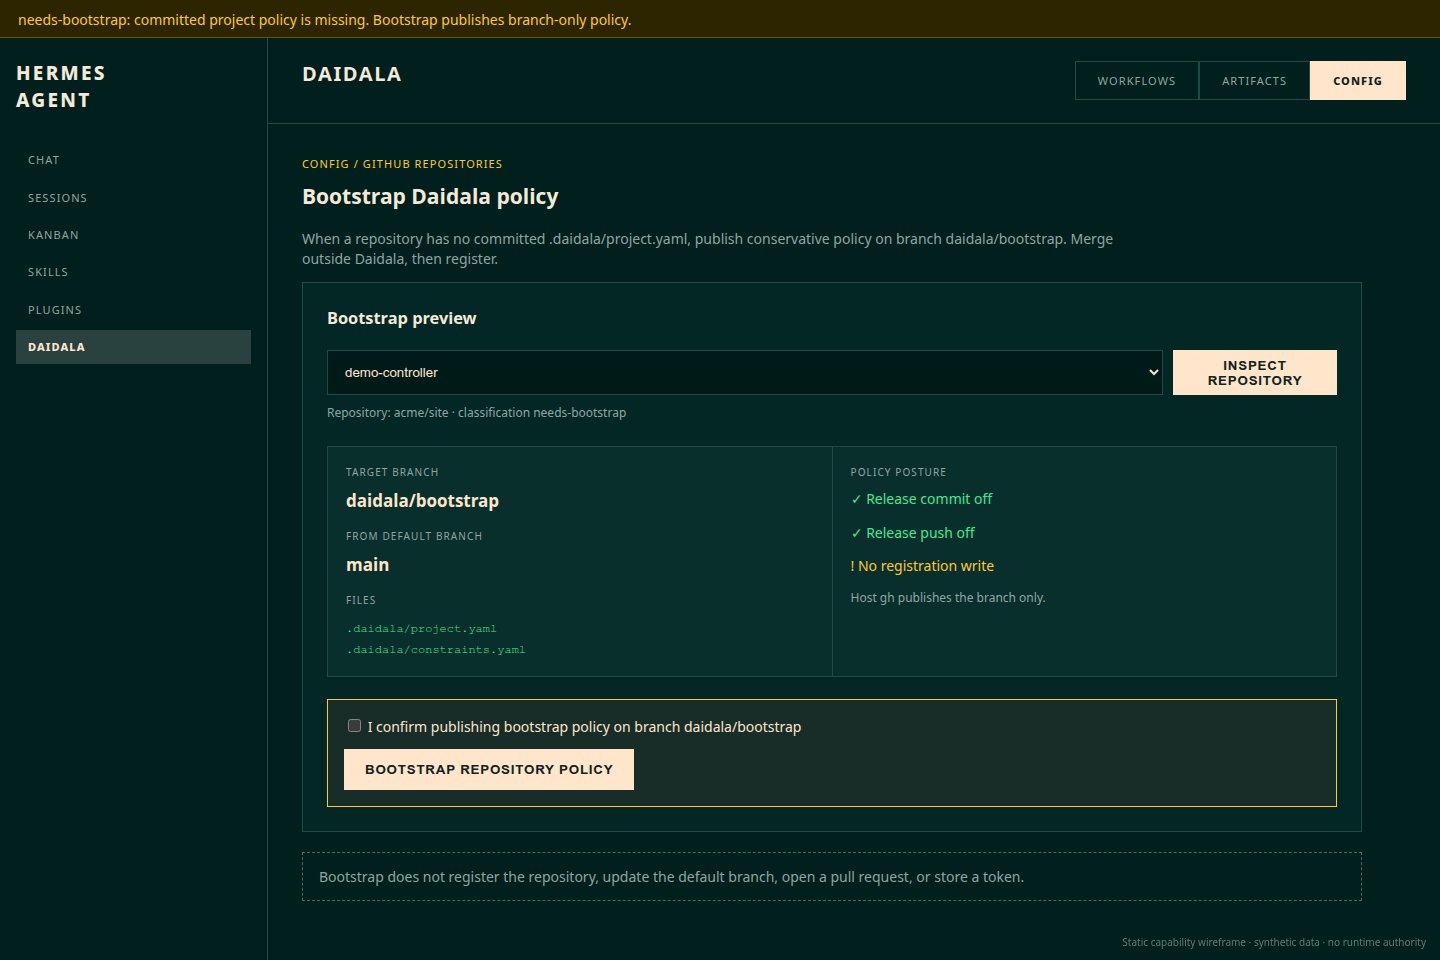
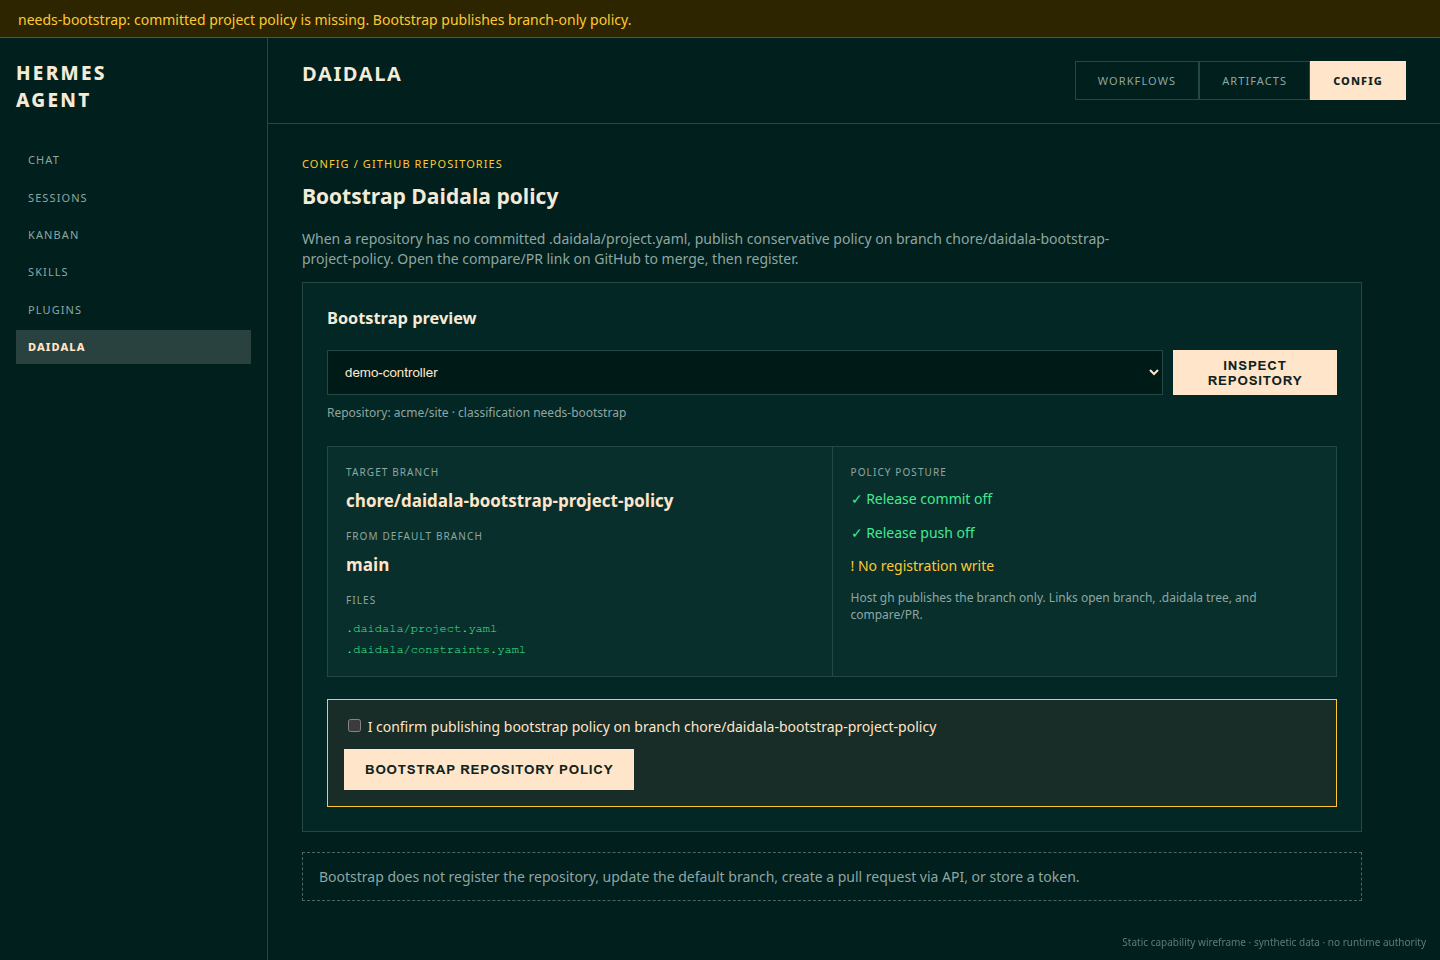
feat(bootstrap): use chore branch naming and GitHub follow-up links
Publish policy on chore/daidala-bootstrap-project-policy and surface public
branch, .daidala tree, and compare/open-PR links without Daidala creating PRs.

diff --git a/docs/product/wireframes/html/CAP-0006-repository-policy-bootstrap.html b/docs/product/wireframes/html/CAP-0006-repository-policy-bootstrap.html
@@ -18,10 +18,10 @@
   <div class="profile">needs-bootstrap: committed project policy is missing. Bootstrap publishes branch-only policy.</div>
   <div class="shell"><aside><div class="brand">HERMES<br>AGENT</div><nav><div>Chat</div><div>Sessions</div><div>Kanban</div><div>Skills</div><div>Plugins</div><div class="active">Daidala</div></nav></aside>
   <main><header><h1>Daidala</h1><div class="tabs"><div class="tab">Workflows</div><div class="tab">Artifacts</div><div class="tab active">Config</div></div></header>
-    <section class="workspace"><p class="crumb">Config / GitHub Repositories</p><h2>Bootstrap Daidala policy</h2><p class="intro">When a repository has no committed .daidala/project.yaml, publish conservative policy on branch daidala/bootstrap. Merge outside Daidala, then register.</p>
+    <section class="workspace"><p class="crumb">Config / GitHub Repositories</p><h2>Bootstrap Daidala policy</h2><p class="intro">When a repository has no committed .daidala/project.yaml, publish conservative policy on branch chore/daidala-bootstrap-project-policy. Open the compare/PR link on GitHub to merge, then register.</p>
       <section class="card"><h3>Bootstrap preview</h3><div class="field"><select aria-label="Selected Hermes profile"><option>demo-controller</option></select><button>Inspect repository</button></div><p class="hint">Repository: acme/site · classification needs-bootstrap</p>
-        <div class="preview"><section><p class="label">Target branch</p><p class="value">daidala/bootstrap</p><p class="label">From default branch</p><p class="value">main</p><p class="label">Files</p><code>.daidala/project.yaml<br>.daidala/constraints.yaml</code></section><section><p class="label">Policy posture</p><p class="ok">✓ Release commit off</p><p class="ok">✓ Release push off</p><p class="warn">! No registration write</p><p class="hint">Host gh publishes the branch only.</p></section></div>
-        <div class="confirm"><label><input type="checkbox"> I confirm publishing bootstrap policy on branch daidala/bootstrap</label><button>Bootstrap repository policy</button></div>
-      </section><p class="note">Bootstrap does not register the repository, update the default branch, open a pull request, or store a token.</p>
+        <div class="preview"><section><p class="label">Target branch</p><p class="value">chore/daidala-bootstrap-project-policy</p><p class="label">From default branch</p><p class="value">main</p><p class="label">Files</p><code>.daidala/project.yaml<br>.daidala/constraints.yaml</code></section><section><p class="label">Policy posture</p><p class="ok">✓ Release commit off</p><p class="ok">✓ Release push off</p><p class="warn">! No registration write</p><p class="hint">Host gh publishes the branch only. Links open branch, .daidala tree, and compare/PR.</p></section></div>
+        <div class="confirm"><label><input type="checkbox"> I confirm publishing bootstrap policy on branch chore/daidala-bootstrap-project-policy</label><button>Bootstrap repository policy</button></div>
+      </section><p class="note">Bootstrap does not register the repository, update the default branch, create a pull request via API, or store a token.</p>
     </section></main></div><div class="annotation">Static capability wireframe · synthetic data · no runtime authority</div>
 </body></html>

diff --git a/dashboard/dist/index.js b/dashboard/dist/index.js
@@ -2544,9 +2544,13 @@
       setBusy(true); setMessage("");
       applyRepositoryBootstrap(githubUrl.trim(), bootstrapPreview.controller_profile, bootstrapPreview.preview_digest).then(function (result) {
         setBootstrapPreview(result); setConfirmed(false);
+        var pr = result && result.links && result.links.compare_pull_request
+          ? result.links.compare_pull_request
+          : "";
         setMessage(
           "Bootstrap branch published: " + (result.branch || bootstrapPreview.target_branch) +
-          ". Merge it into the default branch outside Daidala, then inspect and register."
+          ". Open the compare/pull-request link on GitHub to merge, then inspect and register." +
+          (pr ? " " + pr : "")
         );
       }).catch(function (caught) {
         setMessage("Repository bootstrap was not applied: " + errorText(caught));
@@ -2599,8 +2603,19 @@
         createElement("p", null, "Target branch: " + bootstrapPreview.target_branch + " from " + bootstrapPreview.default_branch),
         createElement("p", null, "Files: " + ((bootstrapPreview.files || []).map(function (file) { return file.path; }).join(", ") || "none")),
         createElement("p", null, "Manifest digest: " + bootstrapPreview.manifest_digest),
-        createElement("p", { className: "daidala-workflow-meta" }, bootstrapPreview.next_step || "Merge the bootstrap branch outside Daidala before registration."),
-        createElement("p", { className: "daidala-workflow-meta" }, "Bootstrap does not register the repository, touch the default branch, open a pull request, or store a token."),
+        createElement("p", { className: "daidala-workflow-meta" }, bootstrapPreview.next_step || "Open the compare/pull-request link, merge on GitHub, then register."),
+        createElement("p", { className: "daidala-workflow-meta" }, "Bootstrap does not register the repository, touch the default branch, create a pull request via API, or store a token."),
+        bootstrapPreview.links ? createElement("ul", { className: "daidala-list" },
+          bootstrapPreview.links.branch ? createElement("li", { key: "branch" },
+            createElement("a", { href: bootstrapPreview.links.branch, target: "_blank", rel: "noreferrer" }, "Open bootstrap branch")
+          ) : null,
+          bootstrapPreview.links.daidala_tree ? createElement("li", { key: "tree" },
+            createElement("a", { href: bootstrapPreview.links.daidala_tree, target: "_blank", rel: "noreferrer" }, "Open .daidala on bootstrap branch")
+          ) : null,
+          bootstrapPreview.links.compare_pull_request ? createElement("li", { key: "pr" },
+            createElement("a", { href: bootstrapPreview.links.compare_pull_request, target: "_blank", rel: "noreferrer" }, "Open compare / create pull request on GitHub")
+          ) : null
+        ) : null,
         createElement("code", null, bootstrapPreview.preview_digest),
         createElement("label", { className: "daidala-pack-confirm" },
           createElement("input", { type: "checkbox", checked: confirmed, onChange: function (event) { setConfirmed(event.target.checked); } }),

diff --git a/daidala/repository_bootstrap.py b/daidala/repository_bootstrap.py
@@ -27,12 +27,14 @@ from .repository_registration import (
 )
 
 BOOTSTRAP_PREVIEW_SCHEMA = "daidala.repository-bootstrap-preview/v1"
-BOOTSTRAP_BRANCH = "daidala/bootstrap"
+# Conventional Commits–style branch name (type/description), not a commit message.
+BOOTSTRAP_BRANCH = "chore/daidala-bootstrap-project-policy"
 BOOTSTRAP_CONFIRMATION = "bootstrap-repository"
 PROJECT_POLICY_PATH = ".daidala/project.yaml"
 CONSTRAINTS_PATH = ".daidala/constraints.yaml"
 _SLUG = re.compile(r"^[a-z0-9][a-z0-9-]{0,127}$")
 _REPOSITORY = re.compile(r"^[A-Za-z0-9_.-]{1,100}/[A-Za-z0-9_.-]{1,100}$")
+_BRANCH = re.compile(r"^[A-Za-z0-9._/-]{1,200}$")
 
 
 class RepositoryBootstrapError(PolicyViolationError):
@@ -87,6 +89,11 @@ class BootstrapPreview:
         return hashlib.sha256(canonical.encode("utf-8")).hexdigest()
 
     def to_dict(self) -> dict[str, object]:
+        links = bootstrap_github_links(
+            repository_canonical=self.repository_canonical,
+            target_branch=self.target_branch,
+            default_branch=self.default_branch,
+        )
         return {
             "schema": self.schema,
             "valid": True,
@@ -101,14 +108,16 @@ class BootstrapPreview:
             "files": [row.to_dict() for row in self.files],
             "manifest_digest": self.manifest_digest,
             "preview_digest": self.digest,
+            "links": links,
             "writes": {
                 "branch": self.target_branch,
                 "file_count": len(self.files),
                 "registration": False,
                 "default_branch": False,
+                "pull_request": False,
             },
             "next_step": (
-                "Merge the bootstrap branch into the default branch outside Daidala, "
+                "Open the compare/pull-request link, merge on GitHub outside Daidala, "
                 "then inspect and register the repository."
             ),
         }
@@ -362,6 +371,41 @@ class RepositoryBootstrapService:
         if not isinstance(payload, dict):
             raise RepositoryBootstrapError(f"GitHub repository {label} response must be an object")
         return payload
+
+
+def bootstrap_github_links(
+    *,
+    repository_canonical: str,
+    target_branch: str,
+    default_branch: str,
+) -> dict[str, str]:
+    """Build public GitHub browser URLs for operator follow-up outside Daidala."""
+
+    if not isinstance(repository_canonical, str) or not _REPOSITORY.fullmatch(
+        repository_canonical
+    ):
+        raise RepositoryBootstrapError("bootstrap repository identity is invalid")
+    if (
+        not isinstance(target_branch, str)
+        or not isinstance(default_branch, str)
+        or not _BRANCH.fullmatch(target_branch)
+        or not _BRANCH.fullmatch(default_branch)
+        or target_branch == default_branch
+    ):
+        raise RepositoryBootstrapError("bootstrap branch identities are invalid")
+    root = f"https://github.com/{repository_canonical}"
+    # GitHub accepts slash-containing branch names as path segments in tree/compare URLs.
+    return {
+        "branch": f"{root}/tree/{target_branch}",
+        "daidala_tree": f"{root}/tree/{target_branch}/.daidala",
+        "compare_pull_request": (
+            f"{root}/compare/{default_branch}...{target_branch}"
+            "?expand=1"
+            "&title=chore%3A%20bootstrap%20Daidala%20project%20policy"
+            "&body=Adds%20conservative%20.daidala%20policy%20generated%20by%20Daidala%20bootstrap."
+            "%20Review%20and%20merge%20to%20enable%20registration."
+        ),
+    }
 
 
 def build_bootstrap_files(canonical: str) -> tuple[BootstrapFile, ...]:

diff --git a/tests/test_repository_bootstrap.py b/tests/test_repository_bootstrap.py
@@ -106,6 +106,22 @@ def test_bootstrap_preview_and_apply_publish_non_default_branch(tmp_path: Path) 
     assert payload["classification"] == CLASSIFICATION_NEEDS_BOOTSTRAP
     assert payload["writes"]["registration"] is False
     assert payload["writes"]["default_branch"] is False
+    assert payload["writes"]["pull_request"] is False
+    assert payload["links"] == {
+        "branch": "https://github.com/forgegod/orphan/tree/chore/daidala-bootstrap-project-policy",
+        "daidala_tree": (
+            "https://github.com/forgegod/orphan/tree/"
+            "chore/daidala-bootstrap-project-policy/.daidala"
+        ),
+        "compare_pull_request": (
+            "https://github.com/forgegod/orphan/compare/"
+            "main...chore/daidala-bootstrap-project-policy"
+            "?expand=1"
+            "&title=chore%3A%20bootstrap%20Daidala%20project%20policy"
+            "&body=Adds%20conservative%20.daidala%20policy%20generated%20by%20Daidala%20bootstrap."
+            "%20Review%20and%20merge%20to%20enable%20registration."
+        ),
+    }
     assert "private" not in json.dumps(payload)
 
     applied = service.apply(

diff --git a/tests/test_dashboard_assets.py b/tests/test_dashboard_assets.py
@@ -288,6 +288,9 @@ def test_bundle_exposes_confirmed_path_free_repository_registration() -> None:
         "Bootstrap repository policy",
         'API_BASE + "/repository-registration/bootstrap/preview"',
         'API_BASE + "/repository-registration/bootstrap"',
+        "Open bootstrap branch",
+        "Open .daidala on bootstrap branch",
+        "Open compare / create pull request on GitHub",
     )
     for text in required_strings:
         assert text in source, f"missing repository registration UI contract text: {text}"

diff --git a/docs/changes/archive/CHG-0011-bootstrap-branch-links.md b/docs/changes/archive/CHG-0011-bootstrap-branch-links.md
@@ -1,0 +1,50 @@
+# CHG-0011: Bootstrap branch naming and operator GitHub links
+
+**Status:** done
+**Source request:** Direct operator request: "For the default branch name use the Conventional Commits Spec https://www.conventionalcommits.org/ naming schema. Because the branch is pushed, offer also a online link to the repository branch and `.daidala` subdirectory for convinience; is there also an ability to merge the branch to main via browser/url? if this is the case, offer also this link to make the merge; if it would be better ot make a pull-request in order to simplify the merge, considner this -- push back if there is a better approach that matches the architecture of Daidala"
+**Affected capabilities:** CAP-0003, CAP-0006
+**Created:** 2026-08-14
+
+## Outcome
+
+Bootstrap publishes policy on a Conventional Commits–style branch name and returns
+path-free GitHub convenience links for the branch, the `.daidala` tree on that
+branch, and GitHub’s compare/open-pull-request page. Daidala still does not create
+PRs, merge, or update the default branch.
+
+## Scope
+
+- Rename the bootstrap target branch to `chore/daidala-bootstrap-project-policy`.
+- Add public `links` on bootstrap preview/apply: `branch`, `daidala_tree`,
+  `compare_pull_request` (GitHub compare with `expand=1`).
+- Surface those links in dashboard bootstrap UI and CLI JSON; update CAP-0006,
+  runbook, wireframe, and tests.
+- Do not add GitHub API PR create/merge, default-branch push, or registration writes.
+
+## Decisions
+
+- Conventional Commits defines commit-message types; branch naming follows the
+  common `type/description` convention with type `chore` because bootstrap adds
+  tooling/policy scaffolding, not product feature work.
+- Prefer a compare/open-PR **link** over Daidala-created PRs. Creating or merging
+  PRs would reopen authority excluded by CAP-0005/CHG-0009; a browser link keeps
+  merge as an operator action on GitHub.
+- There is no reliable one-click merge URL that bypasses PR/review for protected
+  default branches. The compare/open-PR page is the correct GitHub browser path.
+
+## Phases
+
+| Phase | Status | Verification gate |
+|---|---|---|
+| Vertical slice | done | Focused bootstrap/assets tests + CAP/runbook/wireframe update; pytest and ruff on touched paths; records and link checks. |
+| Closeout | done | Focused gates passed; CHG archived. |
+
+## Evidence
+
+- Branch constant is `chore/daidala-bootstrap-project-policy`.
+- Preview/apply JSON includes `links.branch`, `links.daidala_tree`, and
+  `links.compare_pull_request`; `writes.pull_request` remains false.
+- Dashboard surfaces the three operator links; CAP-0006 and runbook updated.
+- Focused pytest (`tests/test_repository_bootstrap.py`,
+  `tests/test_dashboard_assets.py`), ruff, records, markdown links, and CAP-0006
+  wireframe render passed.

diff --git a/docs/product/capabilities/CAP-0006-repository-policy-bootstrap.md b/docs/product/capabilities/CAP-0006-repository-policy-bootstrap.md
@@ -19,14 +19,20 @@ repository or touching the default branch.
   `.daidala/constraints.yaml` content with release flags false, pinned pack
   digests from the running Daidala install, and a derived project ID.
 - Preview binds profile, canonical repository, base commit, target branch
-  `daidala/bootstrap`, and file digests. Apply requires the exact preview digest
-  and literal confirmation `bootstrap-repository`.
+  `chore/daidala-bootstrap-project-policy` (Conventional Commits–style
+  `type/description` branch naming), and file digests. Apply requires the exact
+  preview digest and literal confirmation `bootstrap-repository`.
 - Apply creates blobs/tree/commit through host `gh` Git Data API calls and
-  creates only `refs/heads/daidala/bootstrap`. It never updates the default
-  branch, opens a pull request, merges, stores a token, or writes registration
-  or credential-binding records.
-- After apply, the operator merges the bootstrap branch outside Daidala, then
-  uses CAP-0004 registration against the default-branch manifest.
+  creates only that branch ref. It never updates the default branch, creates a
+  pull request via API, merges, stores a token, or writes registration or
+  credential-binding records.
+- Preview and apply responses include public GitHub convenience links for the
+  bootstrap branch, the `.daidala` tree on that branch, and GitHub’s
+  compare/open-pull-request page (`expand=1`). Merge remains an operator action
+  on GitHub outside Daidala.
+- After the operator merges the bootstrap branch (typically via the linked
+  compare/PR page), they use CAP-0004 registration against the default-branch
+  manifest.
 
 ## Evidence
 
@@ -52,5 +58,6 @@ repository or touching the default branch.
 ## Links
 
 - [CHG-0010](../../changes/archive/CHG-0010-non-daidala-repository-bootstrap.md)
+- [CHG-0011](../../changes/archive/CHG-0011-bootstrap-branch-links.md)
 - [HTML wireframe](../wireframes/html/CAP-0006-repository-policy-bootstrap.html)
 - [PNG wireframe](../wireframes/exports/CAP-0006-repository-policy-bootstrap.png)

diff --git a/docs/07-runbook.md b/docs/07-runbook.md
@@ -57,7 +57,7 @@ then tick the explicit confirmation before registering.
 
 If inspect classifies the repository as `needs-bootstrap` (no committed
 `.daidala/project.yaml`), publish conservative policy on branch
-`daidala/bootstrap` first:
+`chore/daidala-bootstrap-project-policy` first:
 
 ```bash
 daidala project bootstrap --github-url https://github.com/acme/site \
@@ -68,9 +68,10 @@ daidala project bootstrap --github-url https://github.com/acme/site \
 ```
 
 Bootstrap uses host `gh` authentication, never updates the default branch, never
-opens a pull request, and never writes registration records. Merge
-`daidala/bootstrap` into the default branch outside Daidala, then run
-`project register` again.
+creates a pull request via API, and never writes registration records. The
+preview/apply JSON includes GitHub links for the branch, the `.daidala` tree on
+that branch, and a compare/open-pull-request page. Open that compare link on
+GitHub, merge, then run `project register` again.
 
 ## Diagnose prerequisites
 
